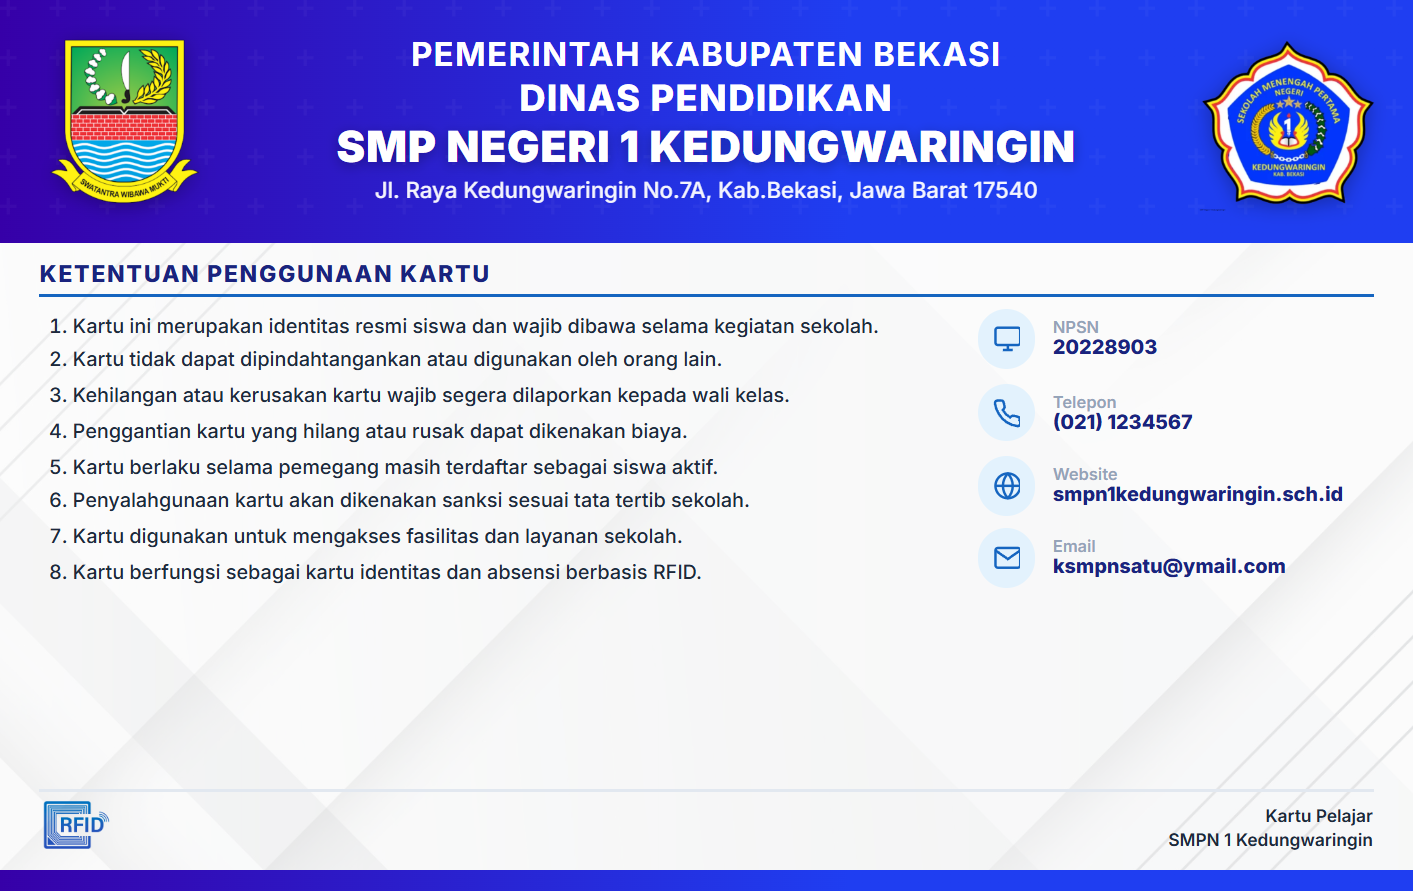
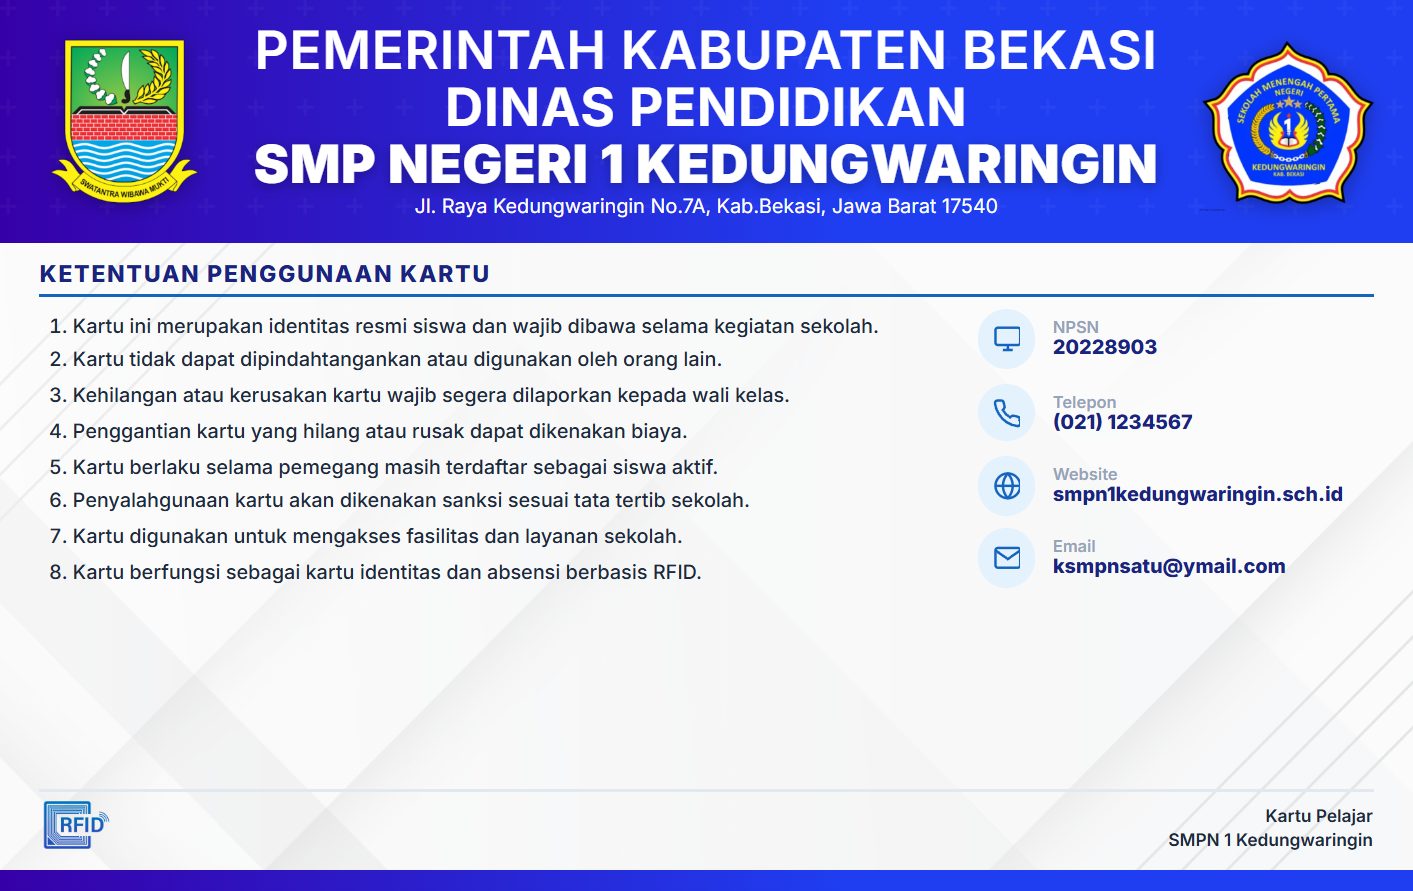
Restore original card header design and font sizes

Changed region(s): [[0.1557, 0.0303, 0.8408, 0.2424]]

diff --git a/public/style.css b/public/style.css
@@ -511,38 +511,36 @@ body {
 }
 
 .card-header-gov {
-  font-size: 20px;
-  font-weight: 700;
+  font-size: 32px;
+  font-weight: 600;
   color: var(--white);
-  letter-spacing: .8px;
+  letter-spacing: .5px;
   text-transform: uppercase;
-  line-height: 1.15;
+  line-height: 1.0;
 }
 
 .card-header-dept {
-  font-size: 22px;
-  font-weight: 800;
+  font-size: 32px;
+  font-weight: 700;
   color: var(--white);
-  letter-spacing: .8px;
-  line-height: 1.15;
+  letter-spacing: .5px;
+  line-height: 1.0;
 }
 
 .card-header-school {
-  font-size: 26px;
+  font-size: 32px;
   font-weight: 900;
   color: var(--white);
   letter-spacing: .5px;
-  line-height: 1.15;
+  line-height: 1.05;
   text-shadow: 0 2px 8px rgba(0, 0, 0, .3);
 }
 
 .card-header-addr {
-  font-size: 13.5px;
+  font-size: 12px;
   color: var(--white);
-  margin-top: 4px;
-  line-height: 1.2;
-  font-weight: 500;
-  opacity: 0.95;
+  margin-top: 2px;
+  line-height: 1.0;
 }
 
 .card-header-logo2 {
